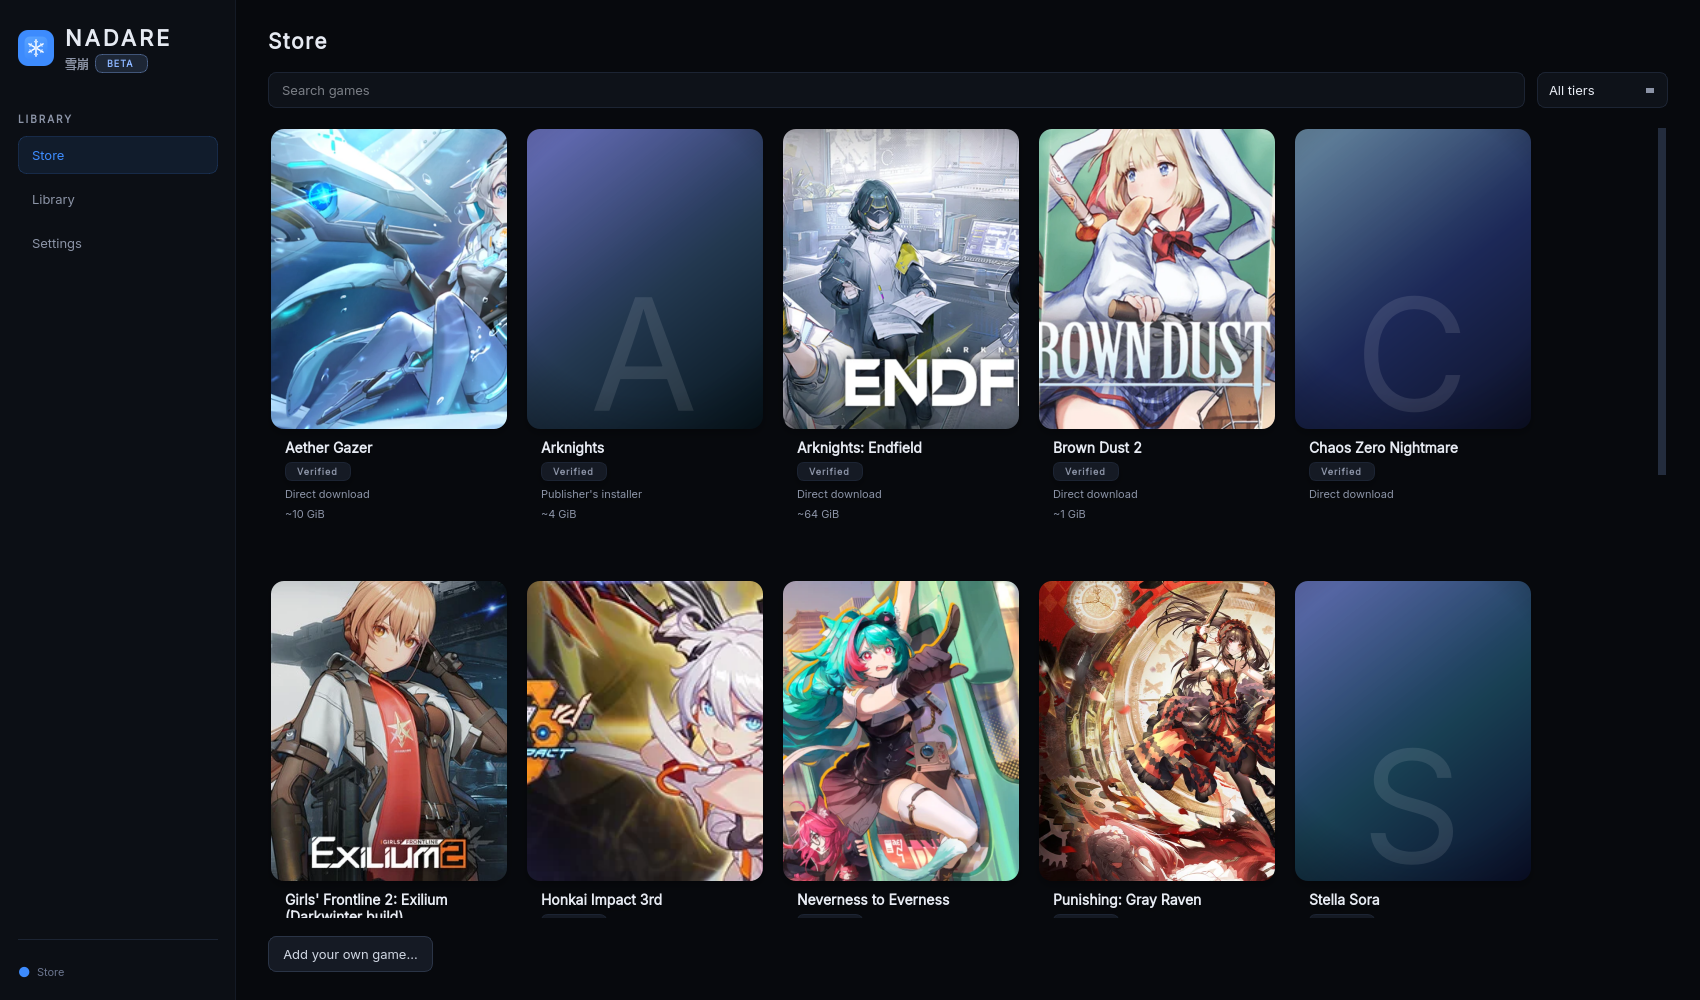
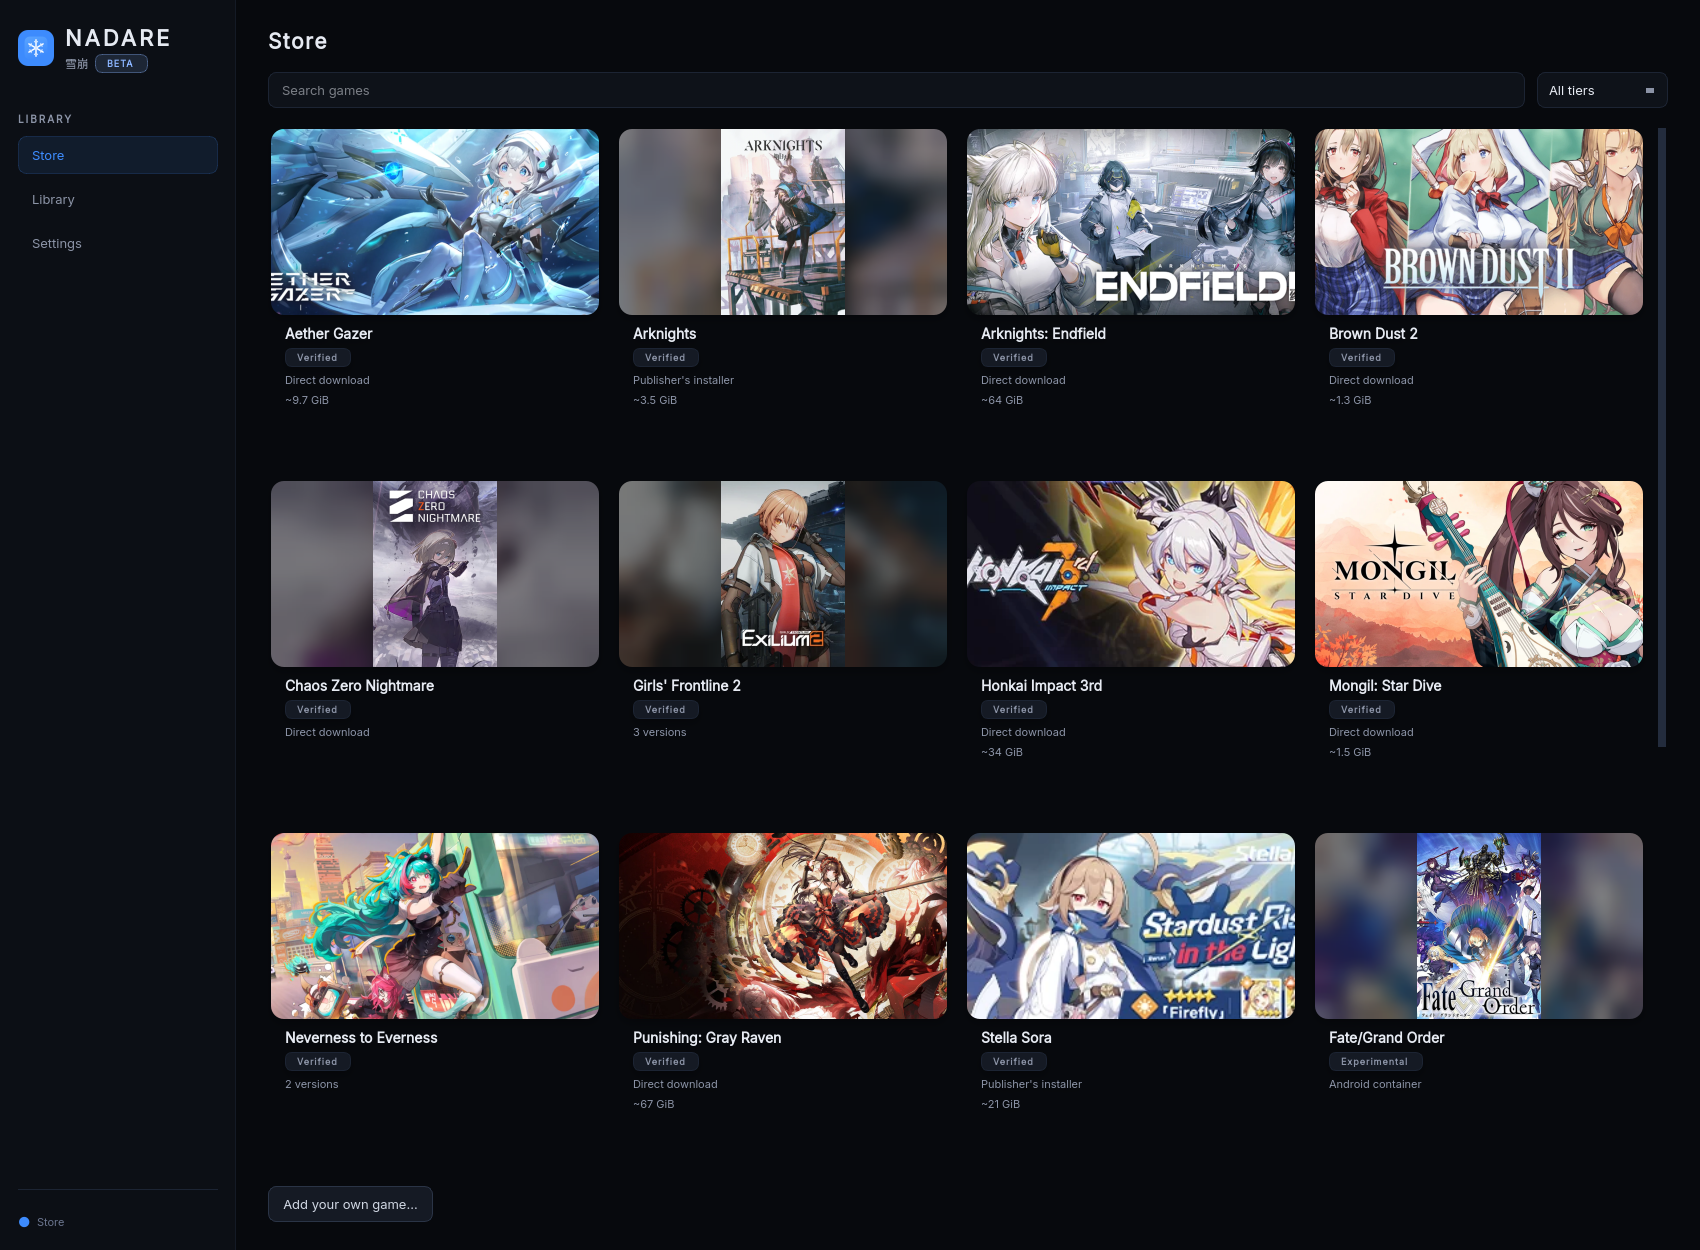
README: two Store screenshots, so the whole catalog shows

diff --git a/README.md b/README.md
@@ -8,6 +8,8 @@ environment, and keeps it updated, one profile per game.
 
 ![The Nadare Store](docs/screenshots/store.png)
 
+![More games in the Store, including the Hoyoverse games](docs/screenshots/store-more.png)
+
 **Download:** the latest AppImage is on the
 [releases page](https://github.com/frostlinuxdev/nadare/releases). Source code and the
 issue tracker are at [github.com/frostlinuxdev/nadare](https://github.com/frostlinuxdev/nadare).
